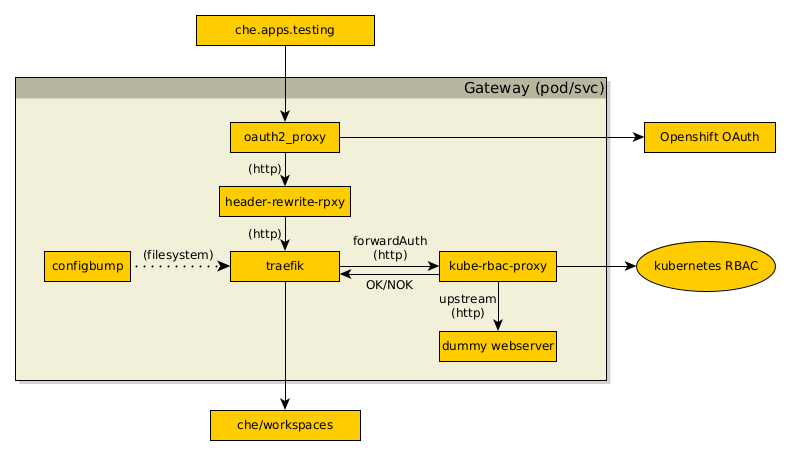
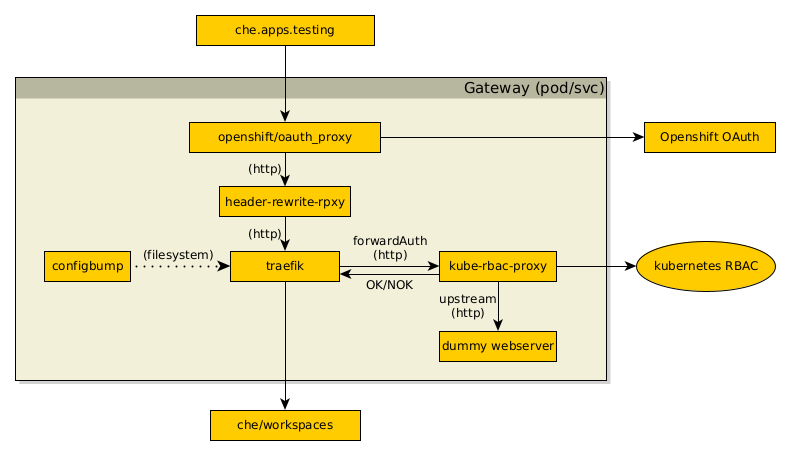
openshift up

Changed region(s): [[0.2124, 0.2462, 0.4855, 0.3385]]

diff --git a/openshift/README.md b/openshift/README.md
@@ -1,0 +1,34 @@
+# Setup minikube instance with authentication and authorization for multiple applications in different namespaces
+
+## How to run
+  1. Have openshift cluster with oc/kubectl configured
+  2. set cluster hostname  to `CLUSTER_HOSTNAME` env variable (`export CLUSTER_HOSTNAME=apps.openshift.cluster`)
+  2. Deploy the gateway with `./01_gateway.sh`
+  3. Deploy the user's application (workspace)
+    1. Go to `workspace` folder -> `$ cd workspace`
+    1. Run `./01_deploy.sh user1` (or other valid user `user[1-5]`).
+    1. Deploy for at least one more user
+
+## How it works
+
+### Diagram
+(gateway is blackbox here. See next image.)
+![Diagram](diagram.png)
+
+### Gateway
+![Gateway](gateway.png)
+
+Gateway covers couple of responsibilities here:
+  - Authentication
+    - _openshift/oauth_proxy_ ensures all incoming requests are authenticated. If user has no auth cookie, it redirects user to authentication page.
+    - oauth_proxy can pass user's openshift token to upstream application only in `X-Forwarded-Access-Token` header. However, we need it in `Authorization` header. For that we have here __header-rewrite-rpxy__, that takes the `X-Forwarded-Access-Token` header value, and puts it into `Authorization: Bearear <token>` header.
+  - Authorization
+    - _Traefik_ uses forwardAuth middleware (https://doc.traefik.io/traefik/middlewares/forwardauth/) with target of kube-rbac-proxy to allow/deny the request. _Kube-rbac-proxy_ uses non-resource RBAC cluster rules (see [/kube-rbac-proxy/route-config.yaml](../kube-rbac-proxy/route-config.yaml#L54)). "Dummy webserver" is there only as a blackhole upstream for kube-rbac-proxy.
+  - Routing
+    - Classic routing with treafik as we know it from single-host Che, except for Authorization middleware described above ^^
+
+
+## How to test
+The user's applications are exposed on `https://che.<cluster-host>/user[1-n]`. Only matching user should have access to the endpoints, other should see something like `Forbidden (user=user3, verb=get, resource=, subresource=)`.
+
+The demo application is doing some requests to k8s with bearer token. Logged user should have access only to his/her namespace. If you try to request different namespace, you shold see in the output something like `configmaps is forbidden: User "user1" cannot list resource "configmaps" in API group "" in the namespace "user2"`.
